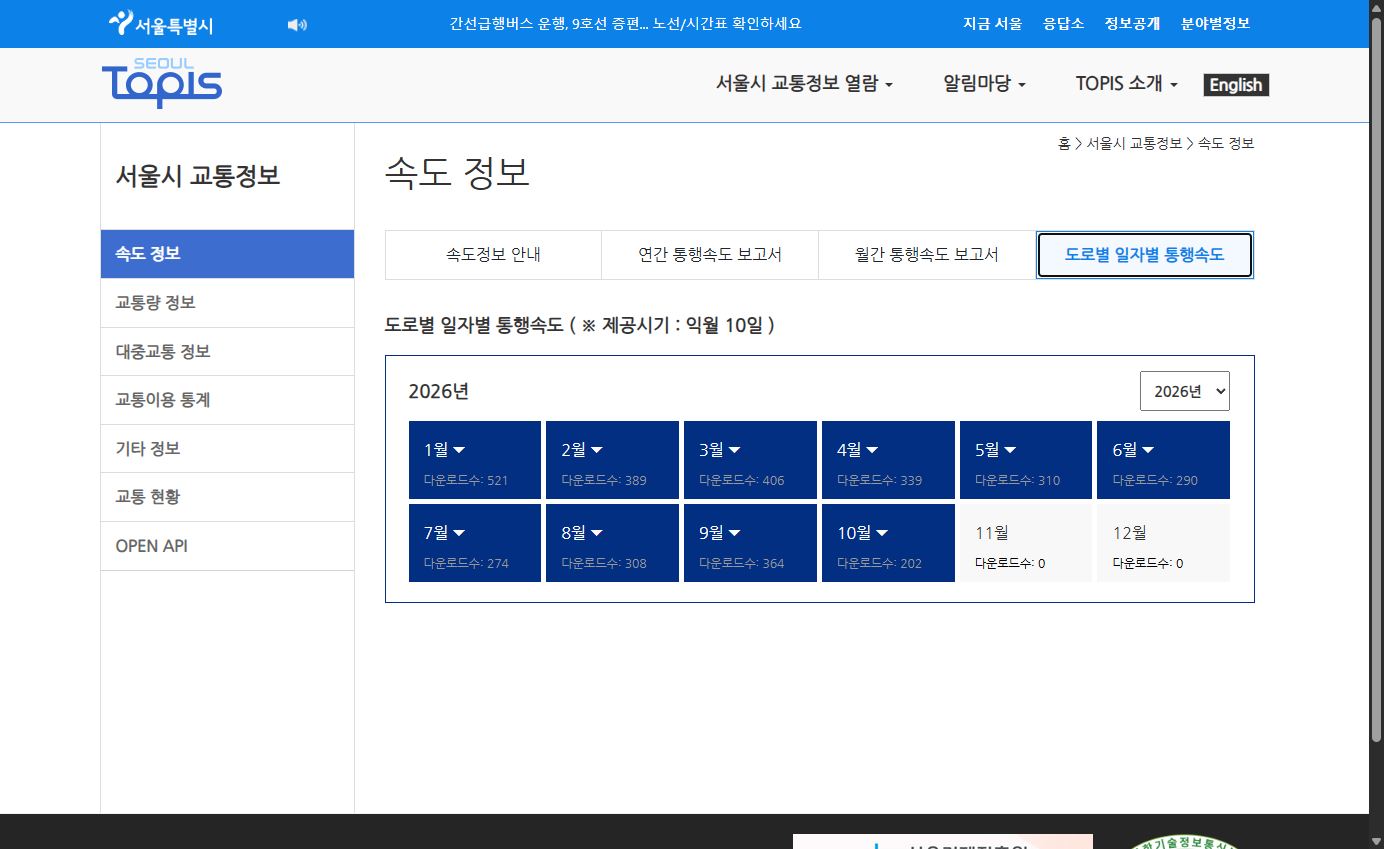
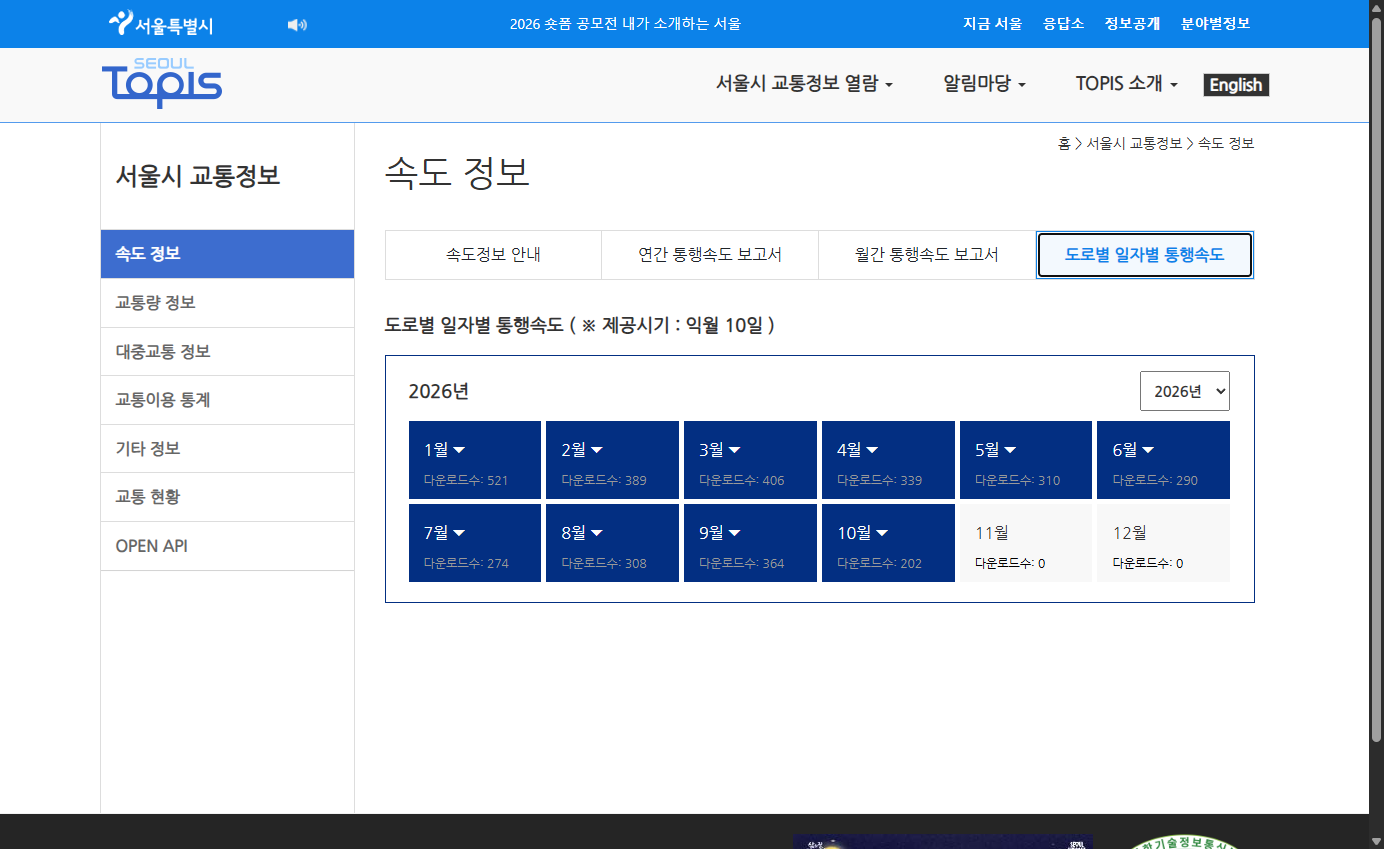
확정 연구 기간으로 TOPIS 45개월 전체 수집
- 연구 기간: 겨울 11/27~3/10, 여름 5/9~9/23
  -> 겨울 11~3월, 여름 4~9월(4월은 평소값용 앞 4주) x 4시즌 + 2022-08
- --all 과 --months 를 함께 쓸 수 있게 변경
- 결과: 45개월 OK 41, WARN 4 (결측률 1% 초과: 2024-08, 2024-11, 2025-07, 2026-07)

Changed region(s): [[0.5592, 0.98, 0.8078, 1.0], [0.3418, 0.0, 0.5592, 0.0306]]

diff --git a/crawling/topis_speed.py b/crawling/topis_speed.py
@@ -53,7 +53,8 @@ EXPECTED_HEAD = ["일자", "요일", "도로명", "링크아이디", "시점명"
                  "방향", "거리", "차선수", "기능유형구분", "도심/외곽구분", "권역구분"]
 N_COLS = 12 + 24  # 정보 12열 + 시간별 속도 24열
 
-# 노션 '데이터 · 연구 기간' 기준 (겨울 11~2월, 여름 6~8월)
+# 연구 기간 (11/20 확정): 겨울 11/27~3/10, 여름 5/9~9/23
+# 평소값용으로 기간 앞 4주도 필요 -> 여름은 4월 파일까지 받음 (겨울 4주 전 10/30은 11월로 충분)
 ALL_SEASONS = ["winter-2022", "winter-2023", "winter-2024", "winter-2025",
                "summer-2023", "summer-2024", "summer-2025", "summer-2026"]
 
@@ -78,9 +79,9 @@ def season_months(season):
     kind, year = season.split("-")
     y = int(year)
     if kind == "winter":
-        return [(y, 11), (y, 12), (y + 1, 1), (y + 1, 2)]
+        return [(y, 11), (y, 12), (y + 1, 1), (y + 1, 2), (y + 1, 3)]
     if kind == "summer":
-        return [(y, 6), (y, 7), (y, 8)]
+        return [(y, m) for m in range(4, 10)]
     raise ValueError(f"시즌 이름 오류: {season} (예: winter-2024, summer-2025)")
 
 
@@ -348,15 +349,16 @@ def run(targets, headless, recheck=False):
 
 def main():
     p = argparse.ArgumentParser(description="TOPIS 도로별 일자별 통행속도 수집")
-    g = p.add_mutually_exclusive_group(required=True)
-    g.add_argument("--season", nargs="+", help="예: winter-2024 summer-2025")
-    g.add_argument("--months", nargs="+", help="예: 2024-12 2022-08")
-    g.add_argument("--all", action="store_true", help="노션 기준 8개 시즌 전체")
+    p.add_argument("--season", nargs="+", help="예: winter-2024 summer-2025")
+    p.add_argument("--months", nargs="+", help="예: 2024-12 2022-08")
+    p.add_argument("--all", action="store_true", help="8개 시즌 전체")
     p.add_argument("--headless", action="store_true")
     p.add_argument("--recheck", action="store_true", help="받은 파일을 다시 검증하고 CSV를 새로 만듦")
     a = p.parse_args()
 
-    seasons = ALL_SEASONS if a.all else (a.season or [])
+    if not (a.all or a.season or a.months):
+        p.error("--season, --months, --all 중 하나는 필요합니다")
+    seasons = ALL_SEASONS + (a.season or []) if a.all else (a.season or [])
     targets = [t for s in seasons for t in season_months(s)]
     for text in a.months or []:
         y, m = text.split("-")
